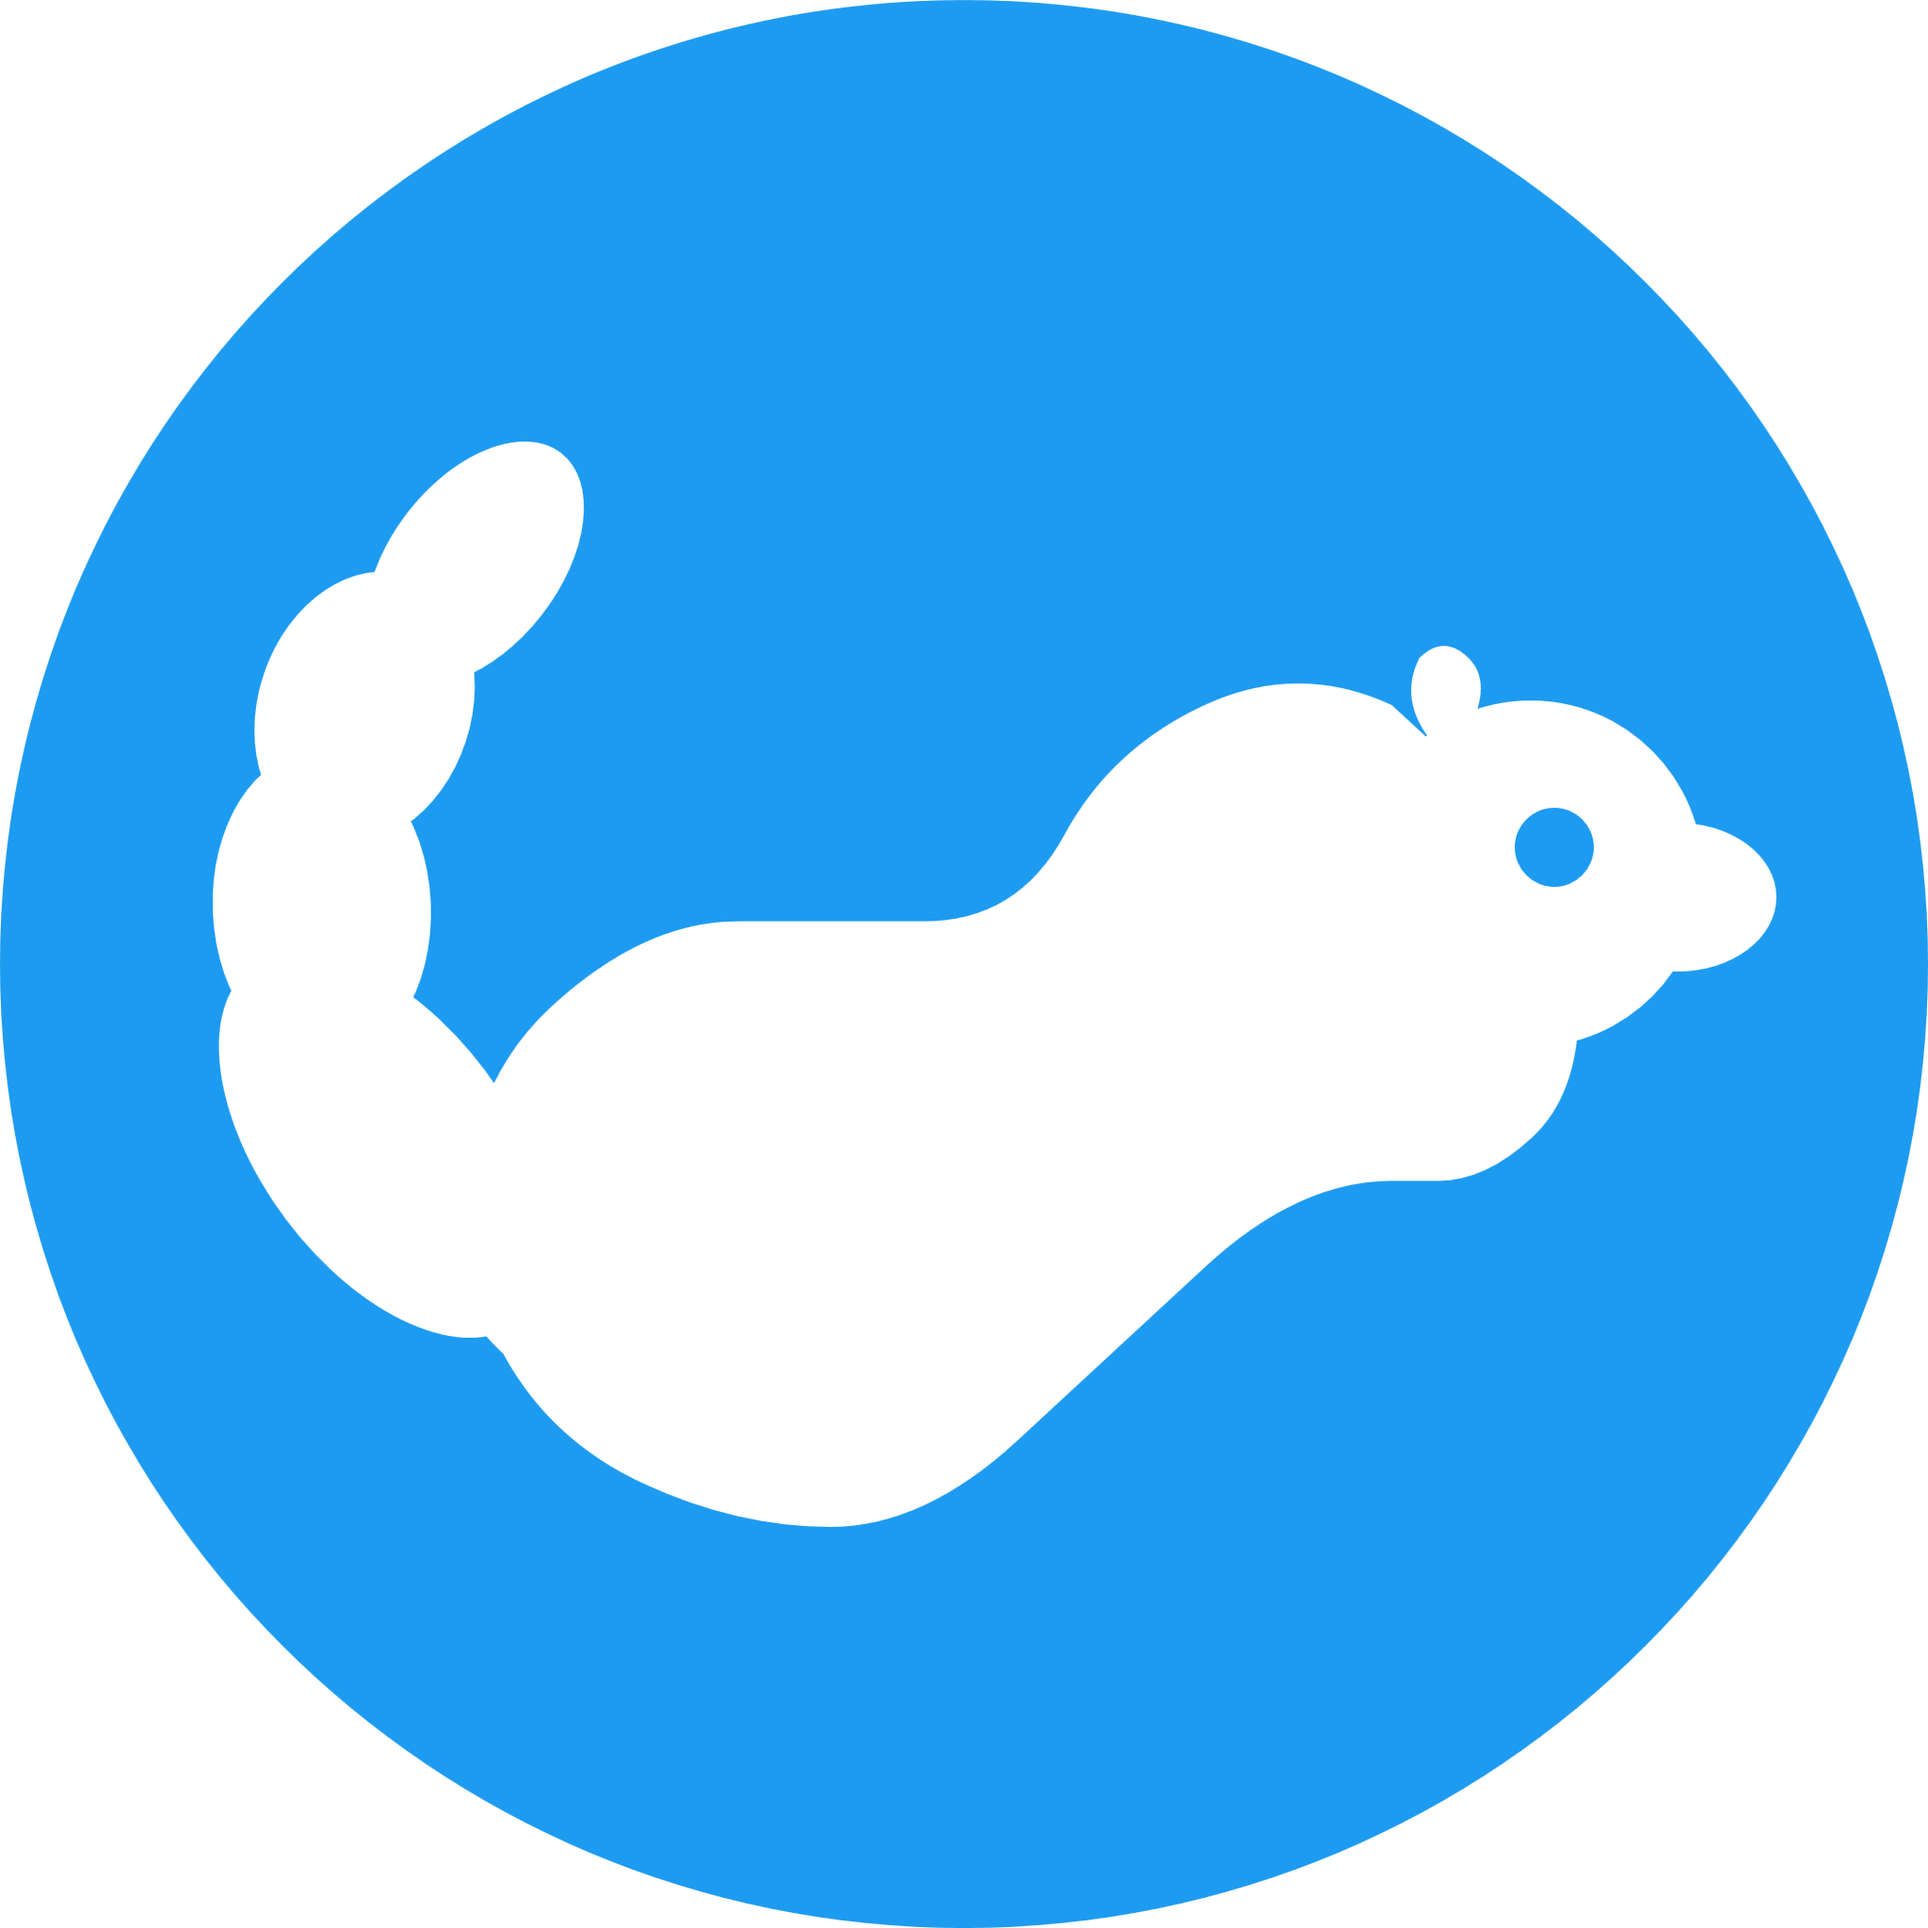
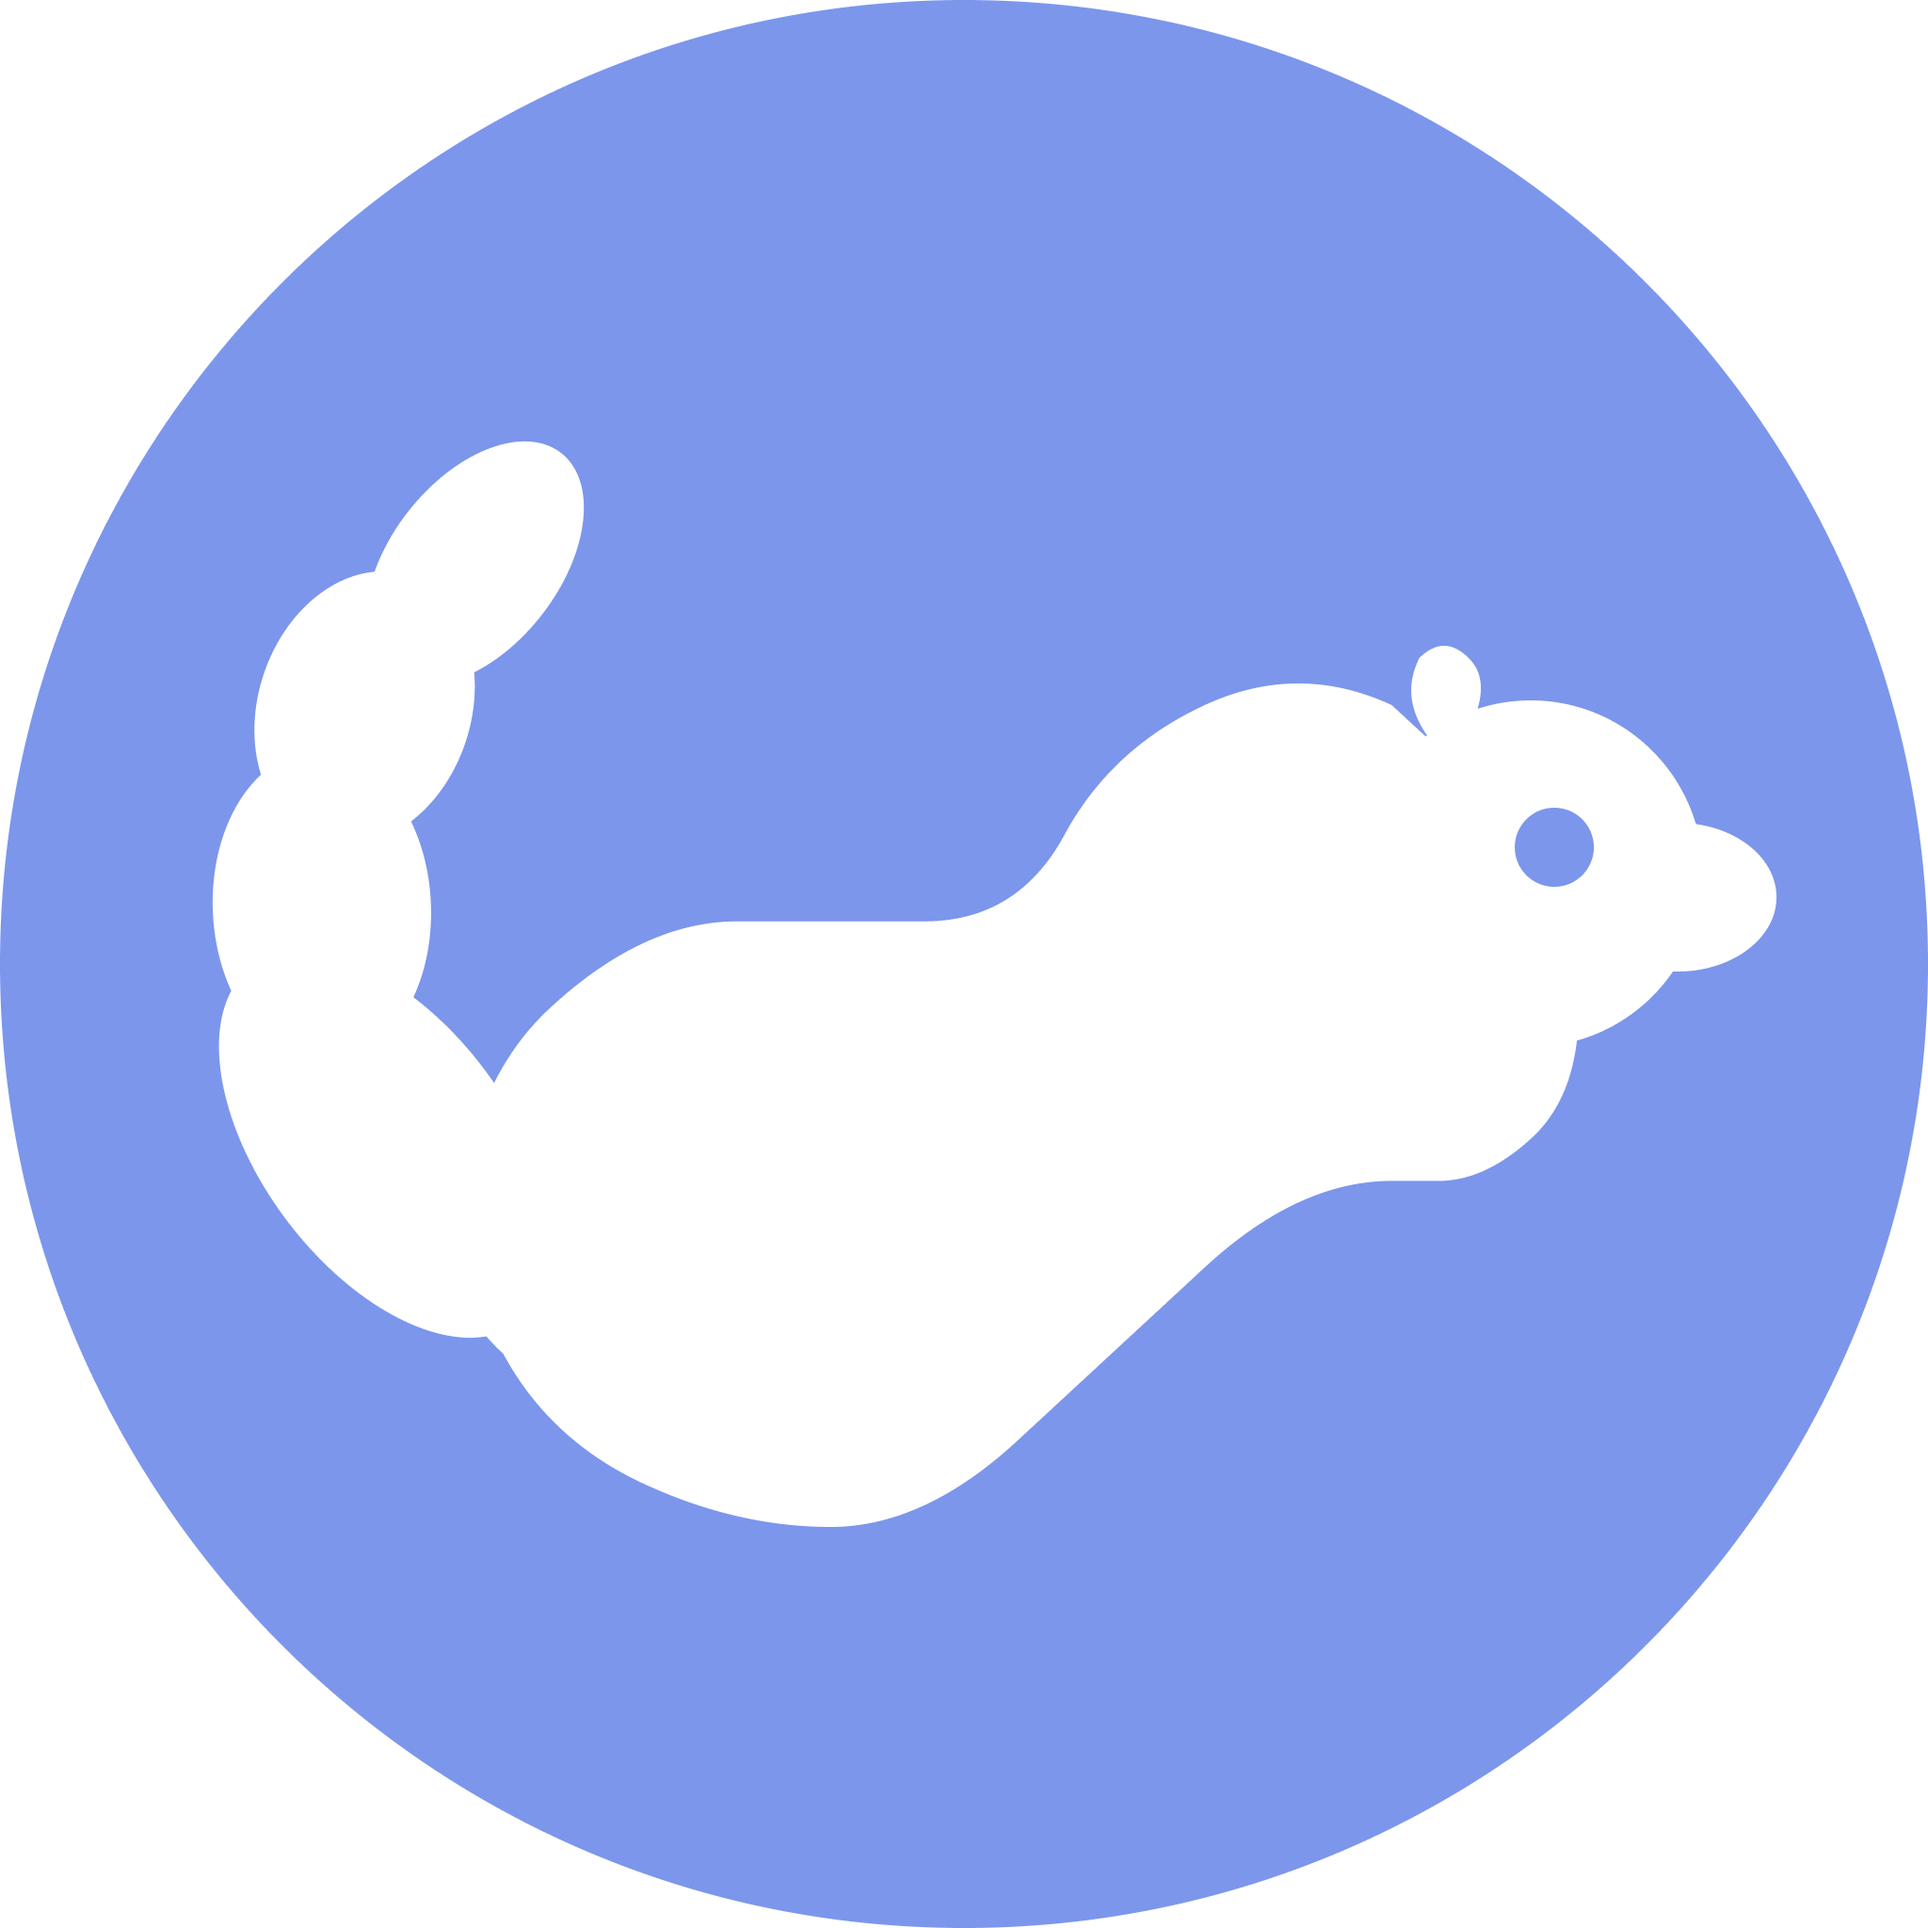
ui: changed tint color from 1D9BF0 to 7c96ec, issue #38

diff --git a/mobile/constants/theme.ts b/mobile/constants/theme.ts
@@ -6,7 +6,7 @@
 
 import { Platform } from 'react-native';
 
-const tintColor = '#1D9BF0';
+const tintColor = '#7c96ec' //'#1D9BF0';
 
 export const Colors = {
   light: {
